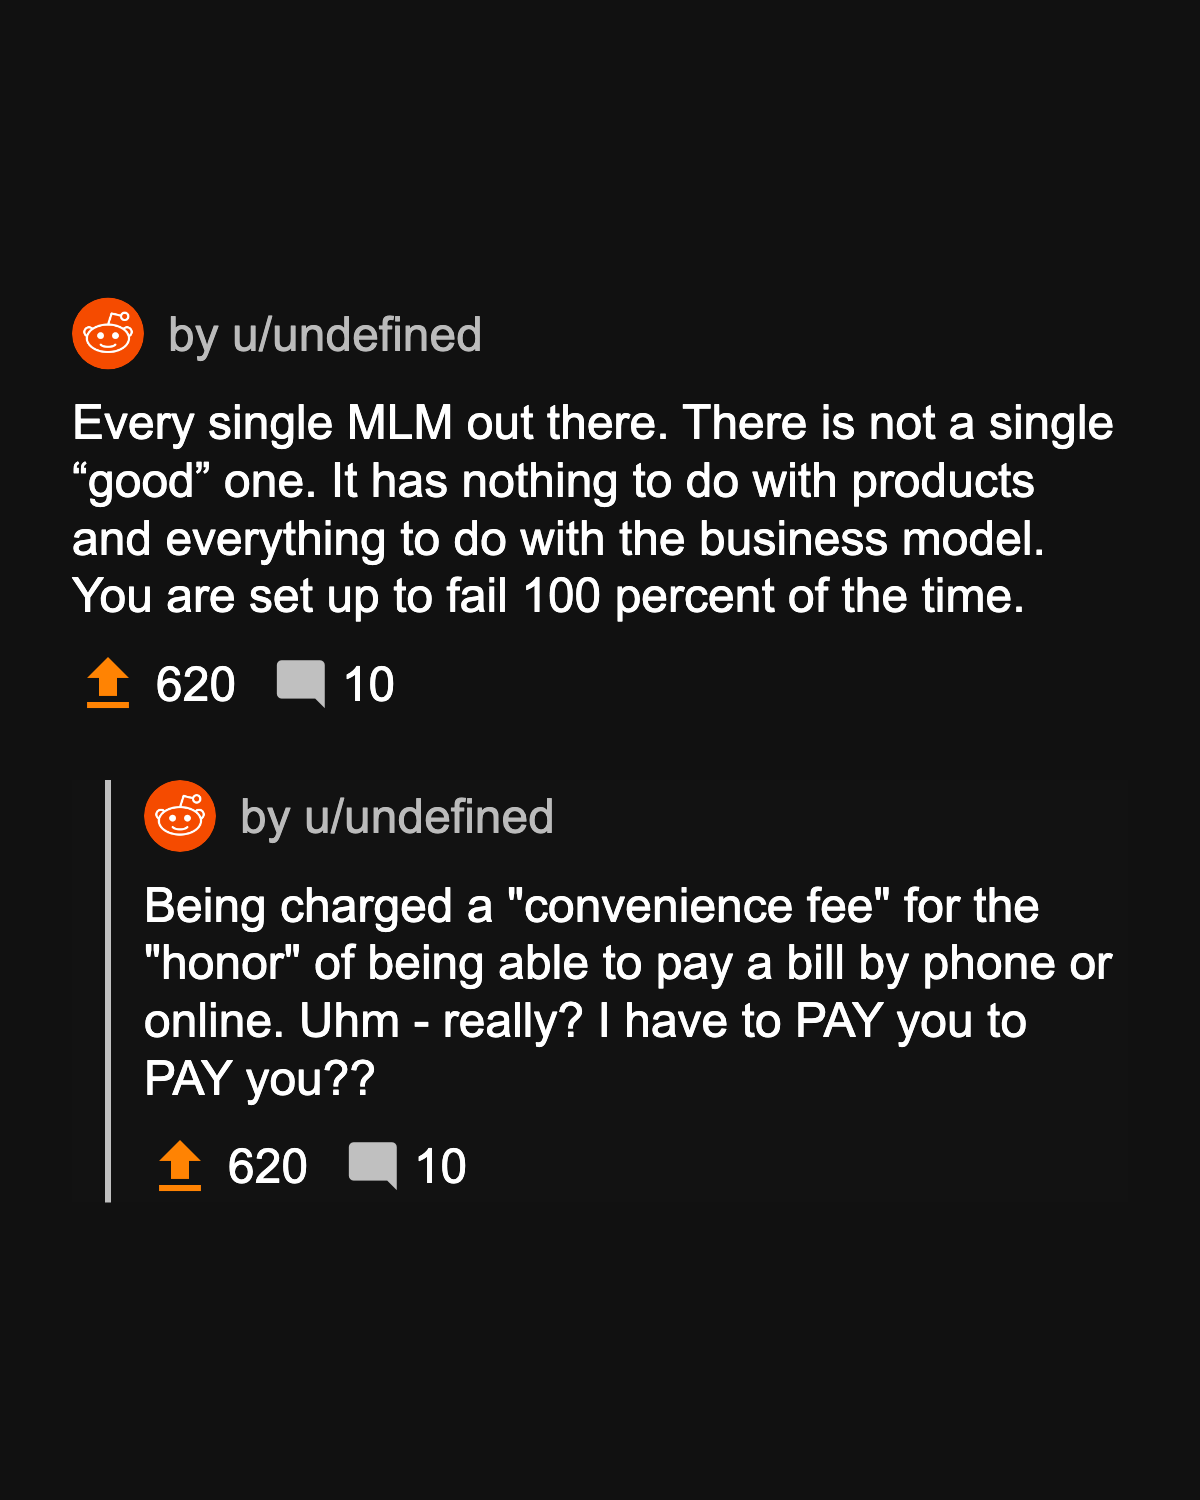
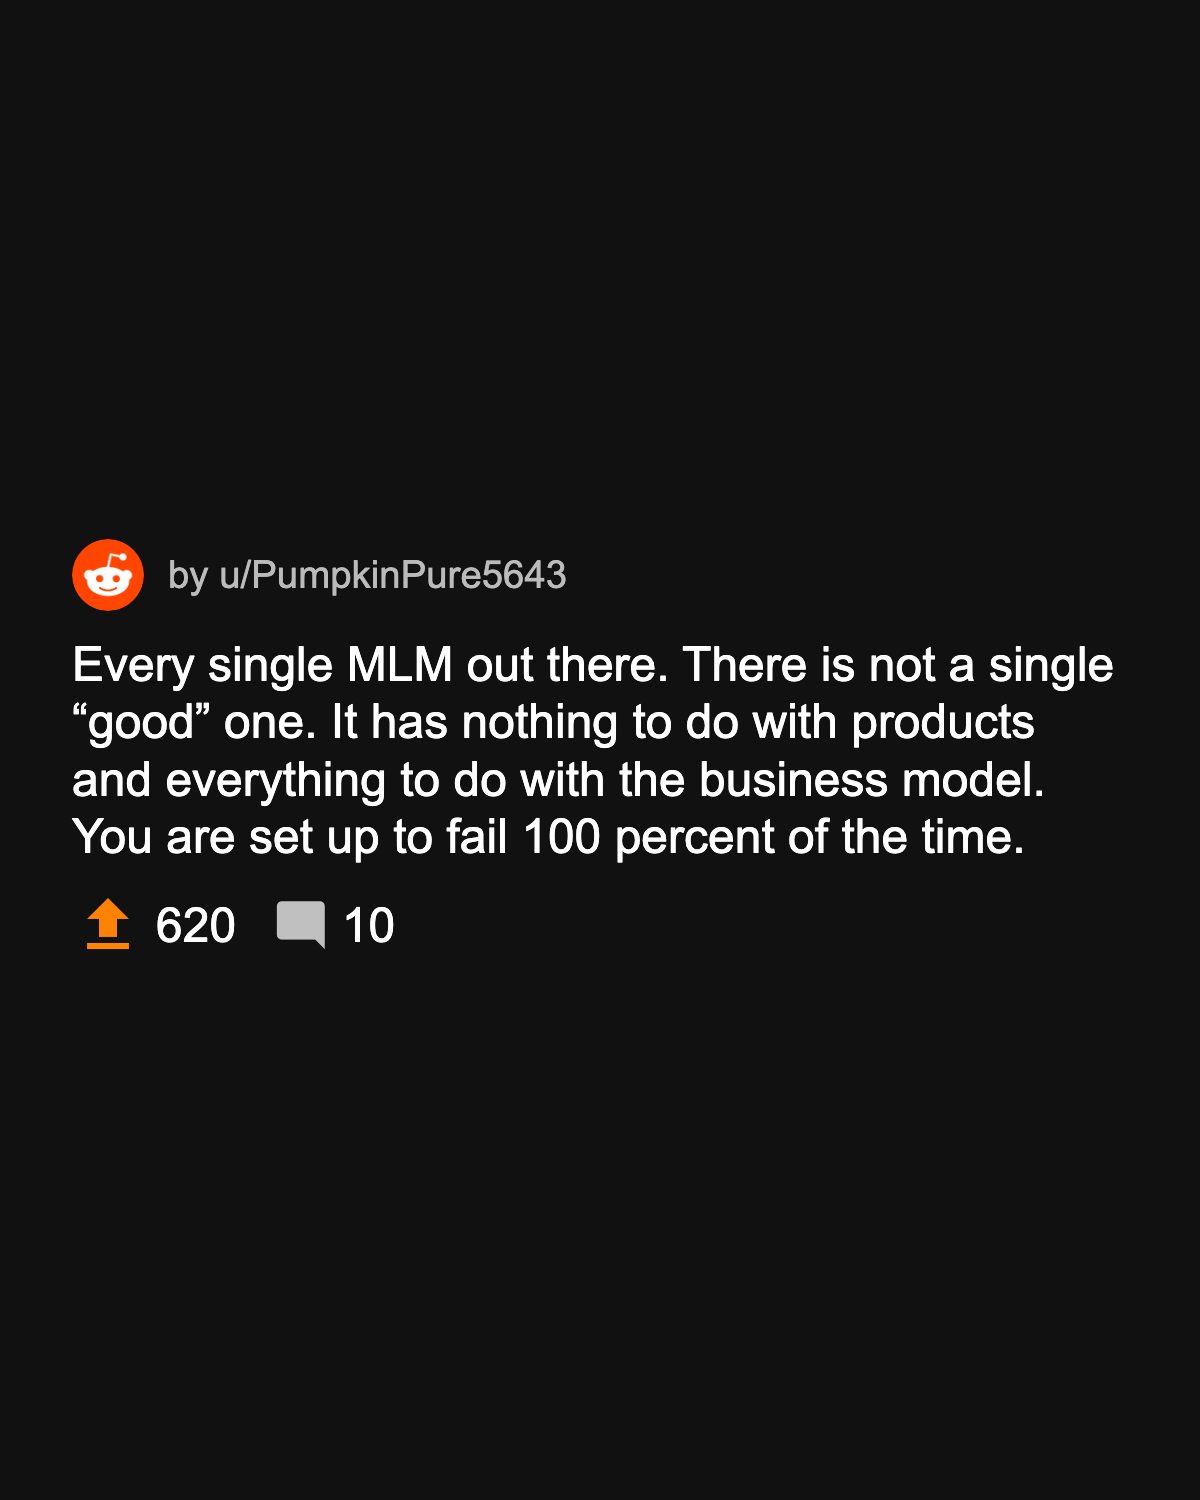
update comments image stuff

Changed region(s): [[0.0617, 0.184, 0.925, 0.7973], [0.1233, 0.736, 0.4008, 0.7973]]

diff --git a/src/utils/commentsHtml.ts b/src/utils/commentsHtml.ts
@@ -1,20 +1,21 @@
 import { RedditUser, Subreddit } from "snoowrap";
-
-export type GetCommentsHtmlArgs = {
-  author: RedditUser;
-  thumbnail: string;
-  body: string;
-  num_replies: number;
-  upvotes: number;
-};
+import { RComment } from "../lib/reddit/types";
 
 export const getCommentsHtml = ({
   author,
   body,
   num_replies,
-  upvotes,
+  replies,
+  ups,
   thumbnail,
-}: GetCommentsHtmlArgs) => {
+}: RComment) => {
+  console.log();
+  let reply;
+  if (replies && replies.length > 0) {
+    reply = replies[0];
+  }
+
+  /*html*/
   return `<html>
 
   <head>
@@ -62,7 +63,7 @@ export const getCommentsHtml = ({
         display: flex;
         flex-direction: column;
         justify-content: center;
-        gap: 8px;
+        gap: 6px;
       }
   
   
@@ -71,7 +72,7 @@ export const getCommentsHtml = ({
         display: flex;
         flex-direction: column;
         justify-content: center;
-        gap: 8px
+        gap: 6px
       }
   
       .reply-bar-box {
@@ -111,6 +112,7 @@ export const getCommentsHtml = ({
   
       .author {
         color: #bbb;
+        font-size: 0.7rem;
       }
   
       .main-text-body {
@@ -162,7 +164,7 @@ export const getCommentsHtml = ({
             </div>
             <div class="header-right">
               <div class="author">
-                by u/${author.name}
+                by u/${author}
               </div>
             </div>
           </div>
@@ -172,7 +174,7 @@ export const getCommentsHtml = ({
           <div class="footer">
             <div class="upvotes">
               <i class="material-icons upvote-icon">file_upload</i>
-              <div>${upvotes}</div>
+              <div>${ups}</div>
             </div>
             <div class="comments">
               <i class="material-icons comment-icon">mode_comment</i>
@@ -180,7 +182,10 @@ export const getCommentsHtml = ({
             </div>
           </div>
         </div>
-      </div>
+      ${
+        /*html*/
+        reply
+          ? `</div>
       <div class="children">
         <div class="reply-bar-box">
           <div class="bar"></div>
@@ -195,27 +200,28 @@ export const getCommentsHtml = ({
             </div>
             <div class="header-right">
               <div class="author">
-                by u/${author.name}
+                by u/${reply.author}
               </div>
             </div>
           </div>
           <div class="children-text-body">
-            Being charged a "convenience fee\" for the \"honor\" of being able to pay a bill by phone or online. Uhm -
-            really? I have to PAY you to PAY you??
+           ${reply.body}
           </div>
           <div class="footer">
             <div class="upvotes">
               <i class="material-icons upvote-icon">file_upload</i>
-              <div>${upvotes}</div>
+              <div>${reply.ups}</div>
             </div>
             <div class="comments">
               <i class="material-icons comment-icon">mode_comment</i>
-              <div>${num_replies}</div>
+              <div>${reply.num_replies}</div>
             </div>
           </div>
         </div>
       </div>
-  
+  `
+          : ""
+      }
     </div>
   </body>
   

diff --git a/src/lib/reddit/Reddit.ts b/src/lib/reddit/Reddit.ts
@@ -26,6 +26,8 @@ const makeTree: any = (bush: any, depth: number) => {
   //take only required fields
   const obj: any = {
     author: bush.author,
+    thumbnail:
+      "https://seeklogo.com/images/R/reddit-logo-23F13F6A6A-seeklogo.com.png",
     body: bush.body,
     ups: bush.ups,
     num_replies: bush.replies.length,
@@ -168,21 +170,18 @@ class Reddit {
   async generateCommentImage(comment: RComment, rank: number) {
     await nodeHtmlToImage({
       output: `./images/carousel_${rank}.png`,
-      html: getCommentsHtml({
-        author: comment.author,
-        thumbnail:
-          "https://cdn4.iconfinder.com/data/icons/social-messaging-ui-color-shapes-2-free/128/social-reddit-circle-512.png",
-        upvotes: comment.ups,
-        num_replies: comment.num_replies,
-        body: comment.body,
-      }),
+      html: getCommentsHtml(comment),
     });
   }
 
   async generateCommentsCarouselImages(comments: RComment[]) {
-    for (let [i, comment] of comments.entries()) {
-      await this.generateCommentImage(comment, i);
-    }
+    await Promise.all(
+      comments.map((comment, i) => this.generateCommentImage(comment, i))
+    );
+
+    // for (let [i, comment] of comments.entries()) {
+    //   await this.generateCommentImage(comment, i);
+    // }
   }
 }
 

diff --git a/src/lib/reddit/types.ts b/src/lib/reddit/types.ts
@@ -11,12 +11,13 @@ export type RedditConfig = {
 };
 
 export type RComment = {
-  author: RedditUser;
+  author: string;
   body: string;
   ups: number;
   num_replies: number;
   depth: number;
   score: number;
+  thumbnail: string;
   downs: number;
   replies: RComment[];
 };
